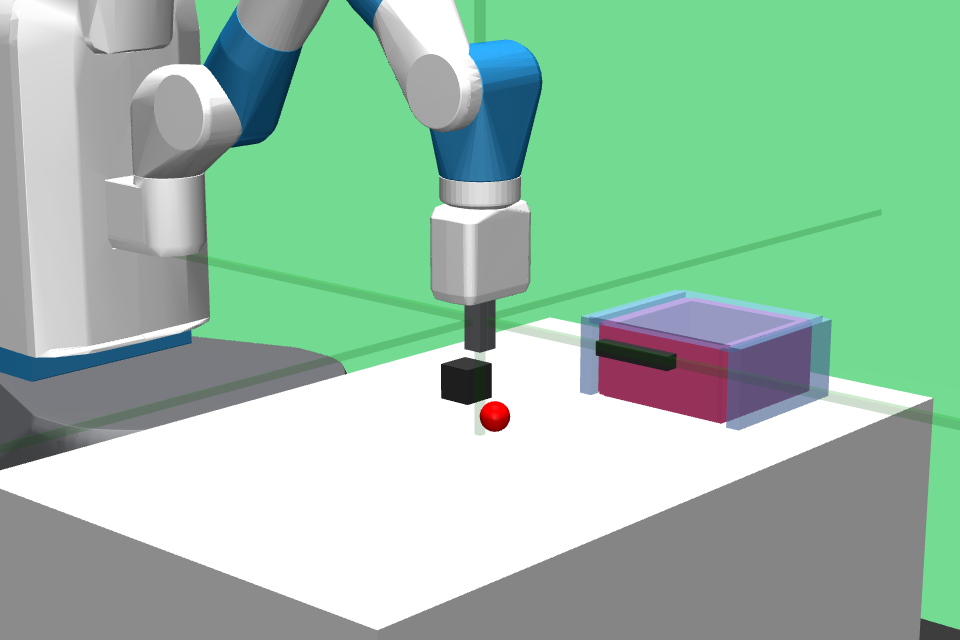
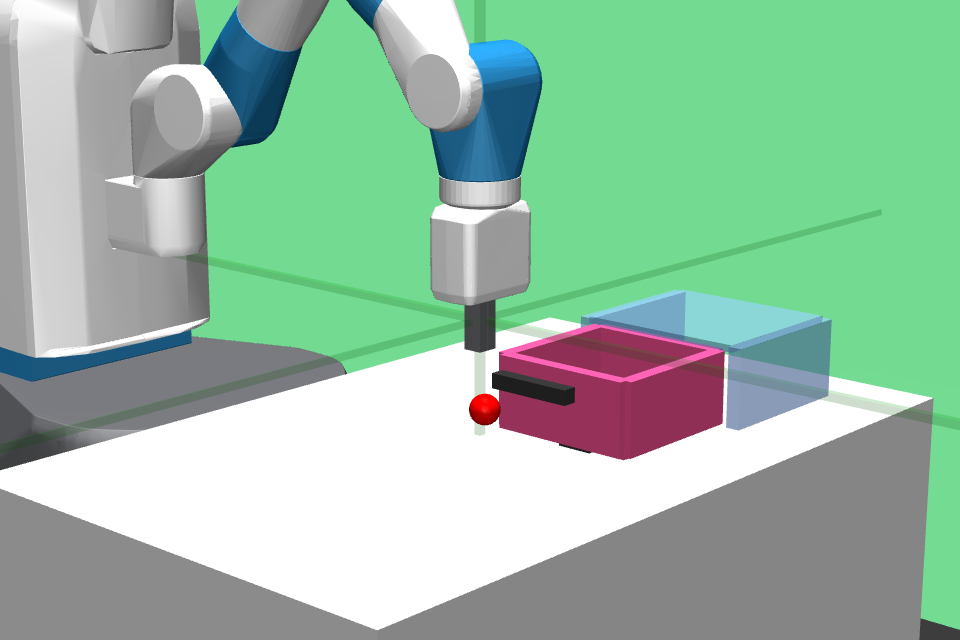
fix initial position of the objects

Changed region(s): [[0.4375, 0.4688, 0.8438, 0.7188]]

diff --git a/specs/README.py b/specs/README.py
@@ -15,7 +15,8 @@ you can do:
 pip install gym-fetch
 ```
 
-Alternatively, you can do
+Alternatively, you can clone this repo and install under development 
+mode:
 ```
 git clone <this repo>
 cd <this repo>
@@ -24,7 +25,14 @@ pip install -e .
 
 ## Environments
 
-Existing Fetch environments from gym
+We extend existing Fetch environments from gym, with 7 new manipulation
+tasks. The `gym.Fetch` environment are much better engineered than the
+sawyer environments that `metaworld` uses. They are faster to initialize,
+and have a small (50 step) maximum episode length, making these environments
+faster to train on.
+
+> We might or might not need to extend the `max_episode_steps` on more 
+> complex tasks.
 """
 
 
@@ -84,7 +92,7 @@ collision dynamics. These are also slower to run.
   BoxBinDrawer-v2 |  ✅ done
 
 
-  BoxBin-v2        | DrawerBin-v2     | BoxBinDrawer-v2   
+  BoxBin-v0        | DrawerBin-v0     | BoxBinDrawer-v0   
 :----------------: | :--------------: | :---------------:
 {render('fetch:BoxBin-v0')} | {render('fetch:DrawerBin-v0')} | {render('fetch:BoxBinDrawer-v0')}
 """

diff --git a/fetch/mixed_envs/box_bin_drawer.py b/fetch/mixed_envs/box_bin_drawer.py
@@ -13,8 +13,8 @@ class BoxBinDrawerEnv(fetch_env.FetchEnv, utils.EzPickle):
             'bin:joint': [1.25, 0.53, 0.4, 1, 0., 0., 0.],
             'drawer:joint': [1.45, 1.1, 0.4, 1, 0., 0., 0.],
             'cabinet:joint': [1.45, 1.1, 1, 1, 0., 0., 0.],
-            'box:joint': [1.25, 0.53, 0.4, 1, 0., 0., 0.],
-            'lid:joint': [1.25, 0.53, 1, 1, 0., 0., 0.],
+            'box:joint': [1.15, 1.1, 0.4, 1, 0., 0., 0.],
+            'lid:joint': [1.15, 1.1, 1, 1, 0., 0., 0.],
         }
         fetch_env.FetchEnv.__init__(
             self, "box_bin_drawer.xml", has_object=True, block_gripper=False, n_substeps=20,

diff --git a/fetch/mixed_envs/box_bin.py b/fetch/mixed_envs/box_bin.py
@@ -11,8 +11,8 @@ class BoxBinEnv(fetch_env.FetchEnv, utils.EzPickle):
             'robot0:slide2': 0.0,
             'object0:joint': [1.25, 0.53, 0.4, 1., 0., 0., 0.],
             'bin:joint': [1.25, 0.53, 0.4, 1, 0., 0., 0.],
-            'box:joint': [1.25, 0.53, 0.4, 1, 0., 0., 0.],
-            'lid:joint': [1.25, 0.53, 1, 1, 0., 0., 0.],
+            'box:joint': [1.15, 0.93, 0.4, 1, 0., 0., 0.],
+            'lid:joint': [1.15, 0.93, 1, 1, 0., 0., 0.],
         }
         fetch_env.FetchEnv.__init__(
             self, "box_bin.xml", has_object=True, block_gripper=False, n_substeps=20,

diff --git a/fetch/box.py b/fetch/box.py
@@ -11,7 +11,7 @@ class BoxEnv(fetch_env.FetchEnv, utils.EzPickle):
             'robot0:slide2': 0.0,
             'object0:joint': [1.25, 0.53, 0.4, 1., 0., 0., 0.],
             'box:joint': [1.25, 0.53, 0.4, 1, 0., 0., 0.],
-            'lid:joint': [1.25, 0.53, 1, 1, 0., 0., 0.],
+            'lid:joint': [1.25, 0.53 if action == "open" else 0.95, 1, 1, 0., 0., 0.],
         }
         fetch_env.FetchEnv.__init__(
             self, "box.xml", has_object=True, block_gripper=False, n_substeps=20,

diff --git a/fetch/drawer.py b/fetch/drawer.py
@@ -10,7 +10,7 @@ class DrawerEnv(fetch_env.FetchEnv, utils.EzPickle):
             'robot0:slide1': 0.48,
             'robot0:slide2': 0.0,
             'object0:joint': [1.25, 0.53, 0.4, 1., 0., 0., 0.],
-            'drawer:joint': [1.45, 1.1, 0.4, 1, 0., 0., 0.],
+            'drawer:joint': [1.45, 1.1 if action == "open" else 0.9, 0.4, 1, 0., 0., 0.],
             'cabinet:joint': [1.45, 1.1, 1, 1, 0., 0., 0.],
         }
         fetch_env.FetchEnv.__init__(

diff --git a/README.md b/README.md
@@ -11,7 +11,8 @@ you can do:
 pip install gym-fetch
 ```
 
-Alternatively, you can do
+Alternatively, you can clone this repo and install under development 
+mode:
 ```
 git clone <this repo>
 cd <this repo>
@@ -20,7 +21,14 @@ pip install -e .
 
 ## Environments
 
-Existing Fetch environments from gym
+We extend existing Fetch environments from gym, with 7 new manipulation
+tasks. The `gym.Fetch` environment are much better engineered than the
+sawyer environments that `metaworld` uses. They are faster to initialize,
+and have a small (50 step) maximum episode length, making these environments
+faster to train on.
+
+> We might or might not need to extend the `max_episode_steps` on more 
+> complex tasks.
 
 
 Reach-v2    | Push-v2    | PickPlace-v2 | Slide-v2    
@@ -60,7 +68,7 @@ collision dynamics. These are also slower to run.
   BoxBinDrawer-v2 |  ✅ done
 
 
-  BoxBin-v2        | DrawerBin-v2     | BoxBinDrawer-v2   
+  BoxBin-v0        | DrawerBin-v0     | BoxBinDrawer-v0   
 :----------------: | :--------------: | :---------------:
 <img style="align-self:center;" src="figures/BoxBin-v0.png" /> | <img style="align-self:center;" src="figures/DrawerBin-v0.png" /> | <img style="align-self:center;" src="figures/BoxBinDrawer-v0.png" />
 

diff --git a/specs/README.md b/specs/README.md
@@ -11,7 +11,8 @@ you can do:
 pip install gym-fetch
 ```
 
-Alternatively, you can do
+Alternatively, you can clone this repo and install under development 
+mode:
 ```
 git clone <this repo>
 cd <this repo>
@@ -20,7 +21,14 @@ pip install -e .
 
 ## Environments
 
-Existing Fetch environments from gym
+We extend existing Fetch environments from gym, with 7 new manipulation
+tasks. The `gym.Fetch` environment are much better engineered than the
+sawyer environments that `metaworld` uses. They are faster to initialize,
+and have a small (50 step) maximum episode length, making these environments
+faster to train on.
+
+> We might or might not need to extend the `max_episode_steps` on more 
+> complex tasks.
 
 
 Reach-v2    | Push-v2    | PickPlace-v2 | Slide-v2    
@@ -60,7 +68,7 @@ collision dynamics. These are also slower to run.
   BoxBinDrawer-v2 |  ✅ done
 
 
-  BoxBin-v2        | DrawerBin-v2     | BoxBinDrawer-v2   
+  BoxBin-v0        | DrawerBin-v0     | BoxBinDrawer-v0   
 :----------------: | :--------------: | :---------------:
 <img style="align-self:center;" src="figures/BoxBin-v0.png" /> | <img style="align-self:center;" src="figures/DrawerBin-v0.png" /> | <img style="align-self:center;" src="figures/BoxBinDrawer-v0.png" />
 
